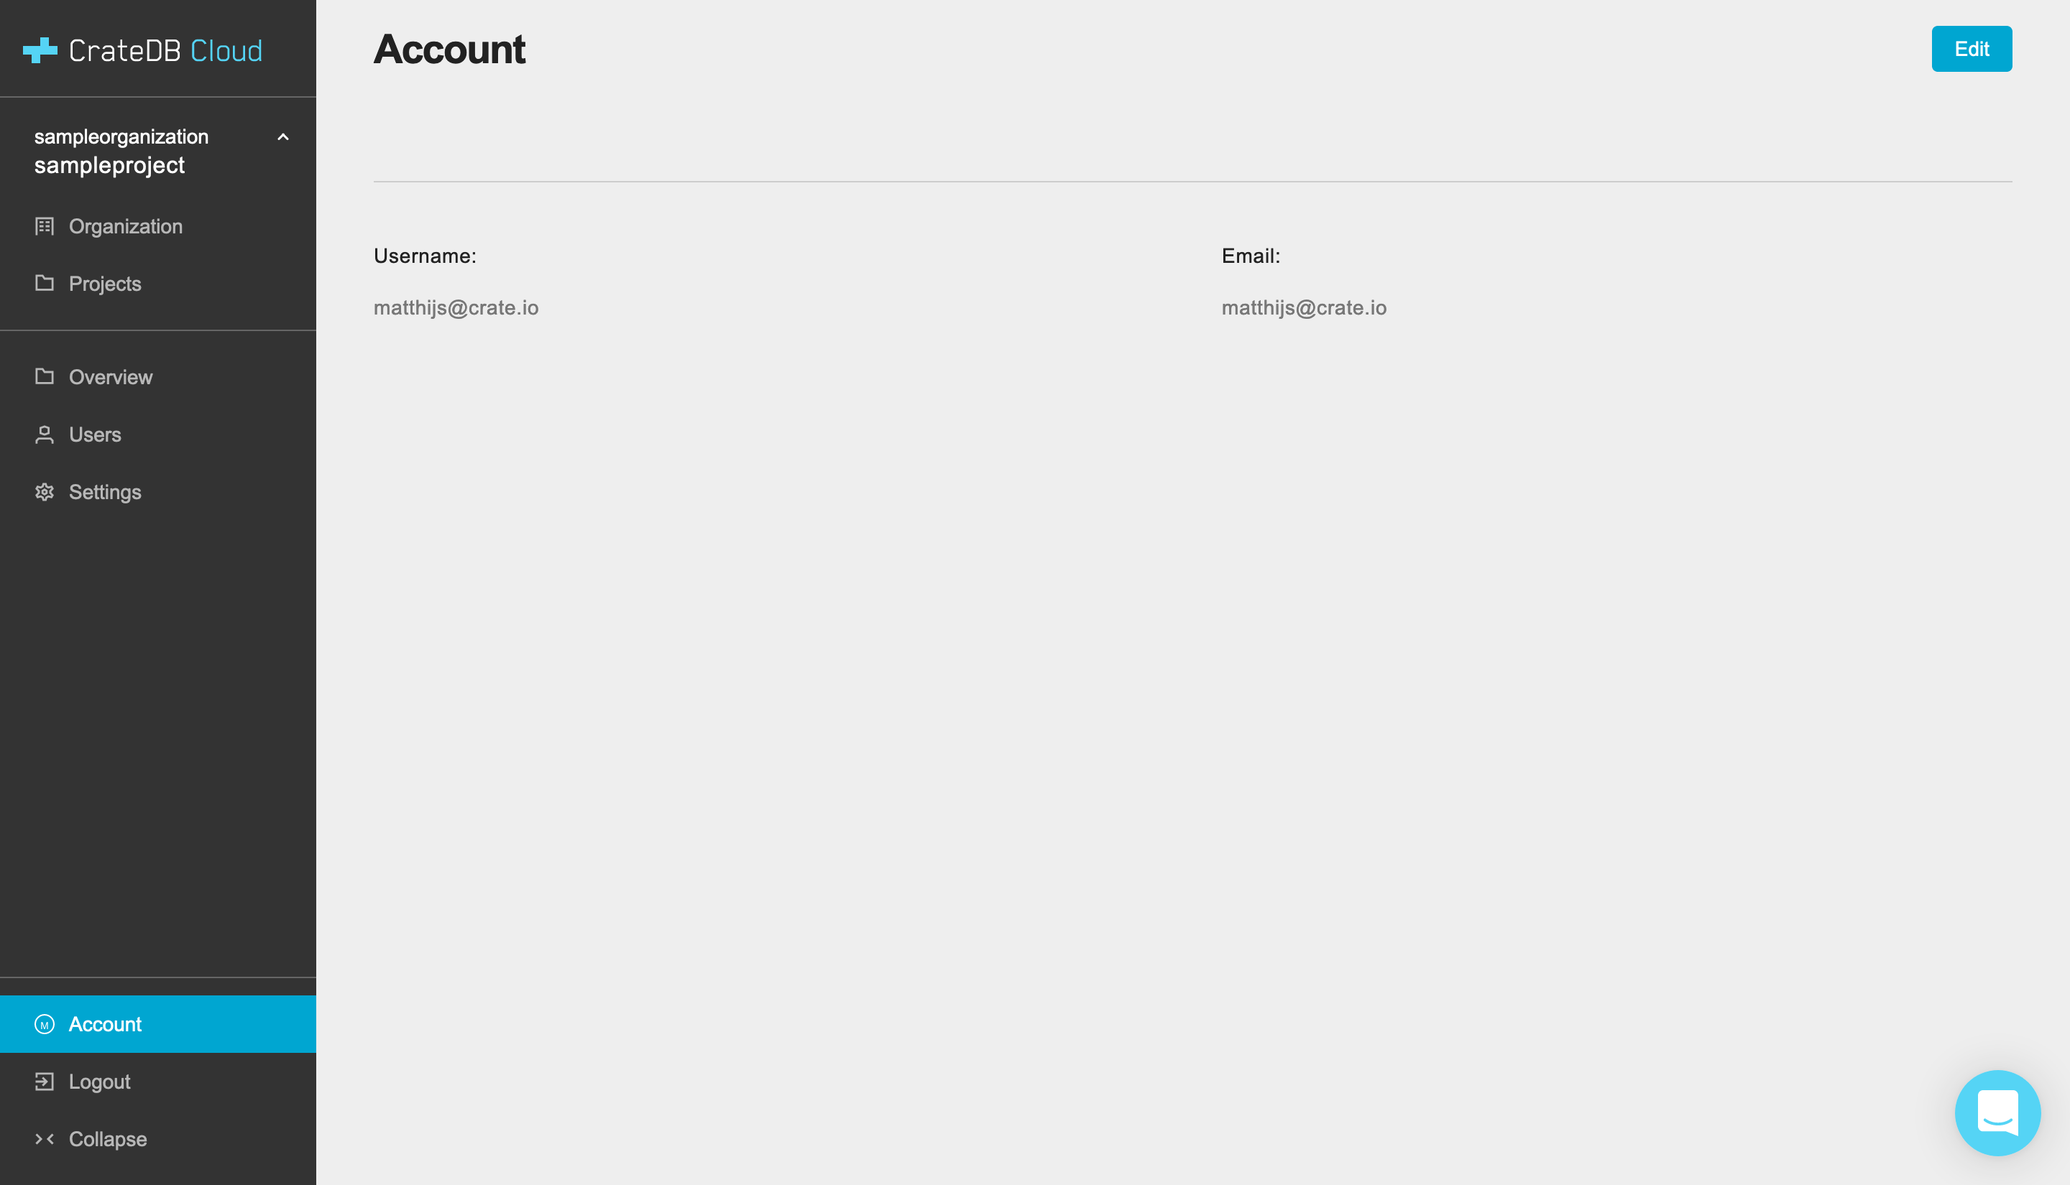
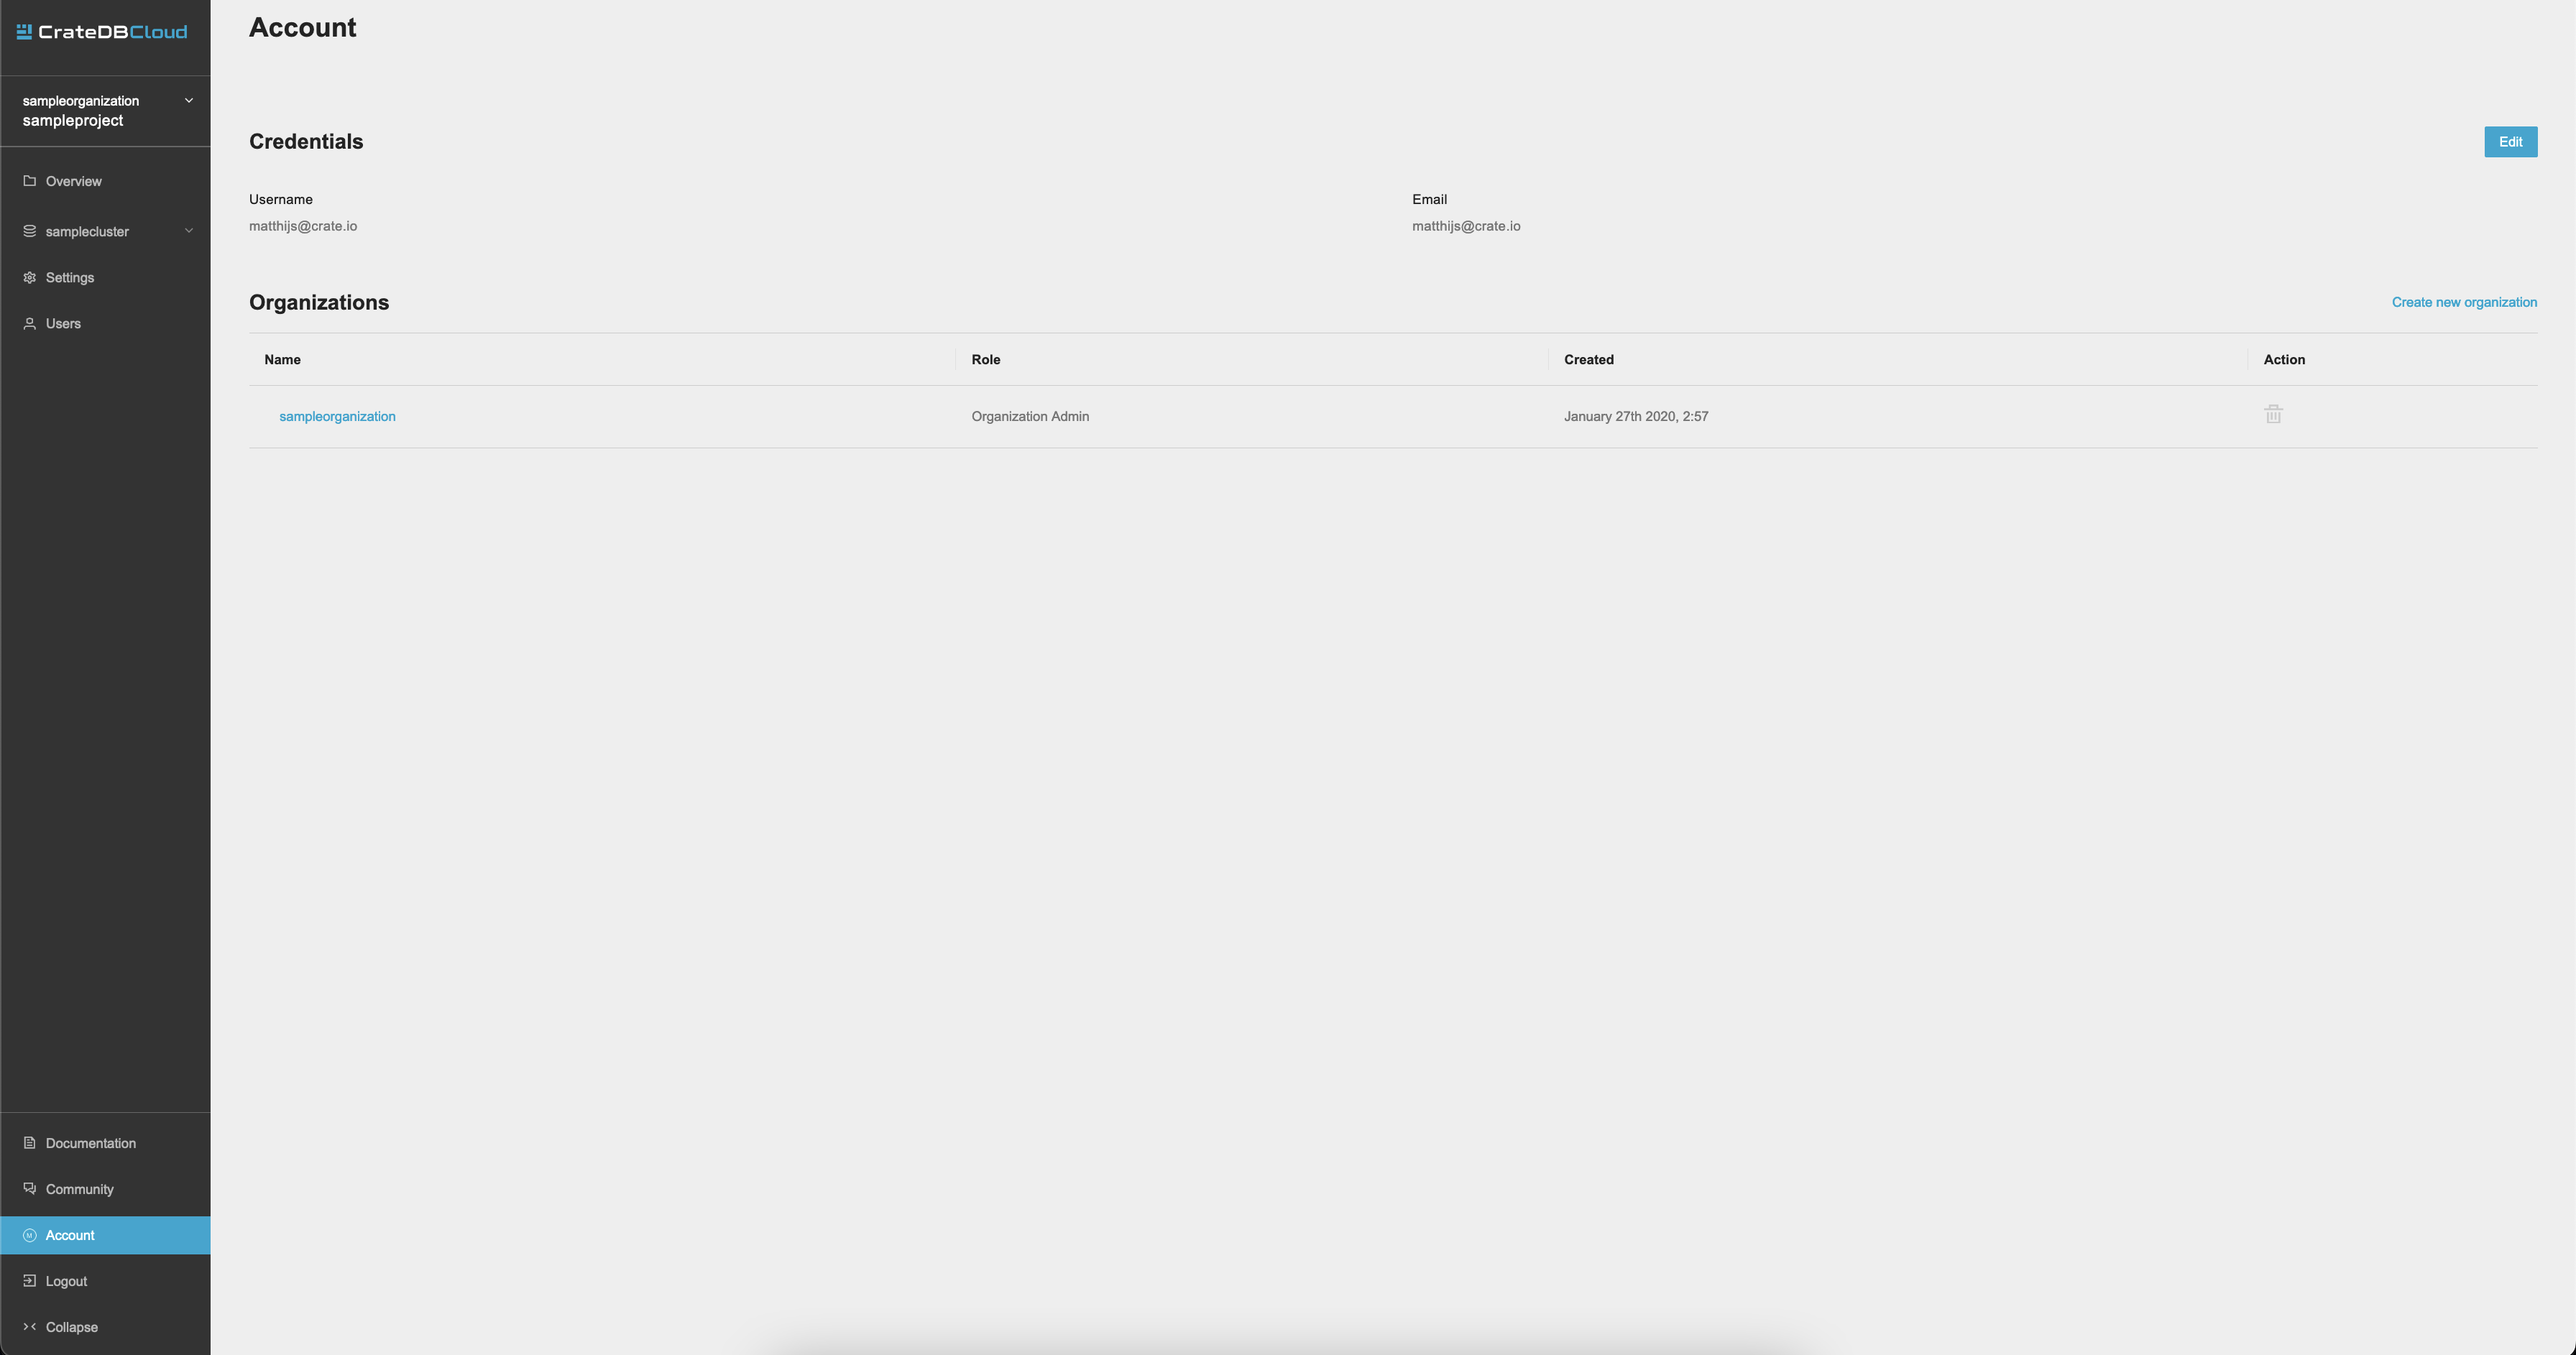
Amend reference for new login options and new org creation process

diff --git a/docs/overview.rst b/docs/overview.rst
@@ -26,7 +26,8 @@ Basics
 .. image:: _assets/img/start.png
    :alt: CrateDB Cloud sign-in screen
 
-You must access the CrateDB Cloud Console by region.
+The CrateDB Cloud user interface permalink is the `CrateDB Cloud Console`_. You
+can `deploy a trial cluster on the CrateDB Cloud Console for free`_.
 
 Here is a list of all currently available regions for CrateDB Cloud:
 
@@ -45,8 +46,8 @@ Bregenz region is managed by Crate.io and is located in Austria. The AWS region
 is managed by AWS and is located in Ireland. Note that the AWS region does not
 serve the CrateDB Cloud Console directly.
 
-From the Cloud Console homepage, you can sign in using your Cloud Console
-username and password (Cognito) or using Microsoft Azure *Active Directory*.
+From the Cloud Console homepage, you can sign in using a Github, Google, or
+Microsoft Azure account or by creating a separate username and password.
 
 If you don't have a Cloud Console account yet, follow the steps in the `signup
 tutorial`_. Select the authentication method you wish to use. From there, you
@@ -60,15 +61,15 @@ Once signed in, you will be presented with the Organization Overview.
 Organization
 ============
 
-The Organization Overview lists the organizations and projects you can access.
+The Organization overview lists the organizations and projects you can access.
 
 If you follow the `tutorial`_ instructions and deploy a test cluster, your
-Organization Overview will look something like this:
+Organization overview will look something like this:
 
 .. image:: _assets/img/organization-dashboard.png
    :alt: Cloud Console organization overview
 
-The Organization Overview consists of seven tabs: *Dashboard*, *Settings*,
+The Organization overview consists of seven tabs: *Dashboard*, *Settings*,
 *Users*, the *Audit Log*, *Billing*, *Regions*, and finally, *Subscriptions*.
 By default it shows the Dashboard tab, which displays two things. On the left,
 it shows a link for creating a new cluster, the blue *Deploy new cluster*
@@ -79,7 +80,7 @@ clusters within your subscription. For information on how to do so, refer to
 `our tutorial on direct cluster deployment`_.
 
 If you are a member of multiple organizations, you can find them in a dropdown
-menu at the top right of the Organization Overview. The CrateDB Cloud Console
+menu at the top right of the Organization overview. The CrateDB Cloud Console
 is structured on a per-organization basis: all pages and tabs in the Console
 will display values for the organization you select here.
 
@@ -92,19 +93,15 @@ Organization Settings
 ---------------------
 
 The Settings tab shows you the name, ID, and notification settings for your
-organization.
+currently selected organization.
 
 .. image:: _assets/img/organization-settings.png
    :alt: Cloud Console organization settings tab
 
 By clicking the *Edit* button next to the organization, you can rename it. Here
 you can also set the email address for notifications and indicate whether you
-want to receive them or not.
-
-.. warning::
-
-    Organizations cannot be deleted in the CrateDB Cloud Console. Contact
-    `CrateDB Cloud support`_ if you need to delete your organization.
+want to receive them or not. To create or delete organizations, or to switch
+organization, go to your :ref:`Account <overview-account>` instead.
 
 
 .. _overview-org-users:
@@ -212,7 +209,7 @@ respective provider.
 Projects
 ========
 
-The Projects page shows an overview of all current projects within the
+The Projects page shows an overview of all current projects within the selected
 organization, together with their timestamp of creation, project ID, and region
 of deployment.
 
@@ -358,7 +355,7 @@ Cluster Metrics
 ---------------
 
 The Cluster Metrics page (not to be confused with the :ref:`metrics section of
-the Cluster Overview page <overview-cluster-overview-metrics>`) provides live
+the Cluster overview page <overview-cluster-overview-metrics>`) provides live
 visualizations of how the cluster is functioning. It shows two graph panels:
 one for the average response time of a query (in milliseconds) and one for the
 total number of queries per second.
@@ -594,13 +591,28 @@ Account
 
 The Account page shows the current account you are using to interact with the
 CrateDB Cloud Console. It shows the username as well as the email address
-associated with that username.
+associated with that username. It also shows a list of all organizations you
+are involved in, with your :ref:`user role <user-roles>` and the date of its
+creation.
 
 .. image:: _assets/img/account.png
    :alt: Cloud Console account
 
 The latter can be edited in this screen by clicking the *Edit* button at the
 top right.
+
+You can also create and delete organizations on the Account page. To create a
+new organization, click on *Create new organization* at the top right above
+the organization list. The `organization creation process`_ is then the same as
+when you first sign up for the CrateDB Cloud Console. To delete an
+organization, click the trashcan icon next to the organization in the list.
+Organizations can only be deleted after deleting the projects and clusters they
+contain first.
+
+To switch the active organization, click on the organization name in the list.
+All organization, project, and cluster management options displayed in the
+CrateDB Cloud Console will then refer to that organization until you switch
+organizations again.
 
 
 .. _overview-logout:
@@ -623,13 +635,16 @@ CrateDB Cloud Console.
 .. _CrateDB and CrateDB Cloud Community page: https://community.crate.io/
 .. _CrateDB architecture documentation: https://crate.io/docs/crate/howtos/en/latest/architecture/shared-nothing.html
 .. _CrateDB Cloud: https://crate.io/products/cratedb-cloud/
+.. _CrateDB Cloud Console: https://console.cratedb.cloud
 .. _CrateDB Cloud support: support@crate.io
 .. _CrateDB Edge: https://crate.io/products/cratedb-edge/
 .. _CrateDB Edge region: https://crate.io/docs/cloud/tutorials/en/latest/edge.html
 .. _Croud clusters upgrade: https://crate.io/docs/cloud/cli/en/latest/commands/clusters.html#clusters-upgrade
+.. _deploy a trial cluster on the CrateDB Cloud Console for free: https://crate.io/lp-free-trial
 .. _glossary: https://crate.io/docs/cloud/reference/en/latest/glossary.html
 .. _HTTP: https://crate.io/docs/crate/reference/en/latest/interfaces/http.html
 .. _Microsoft Azure: https://azure.microsoft.com/en-us/
+.. _organization creation process: https://crate.io/docs/cloud/howtos/en/latest/create-org.html
 .. _our tutorial on direct cluster deployment: https://crate.io/docs/cloud/tutorials/en/latest/cluster-deployment/stripe.html
 .. _PostgreSQL wire protocol: https://crate.io/docs/crate/reference/en/latest/interfaces/postgres.html
 .. _scaling the cluster: https://crate.io/docs/cloud/howtos/en/latest/scale-cluster.html
